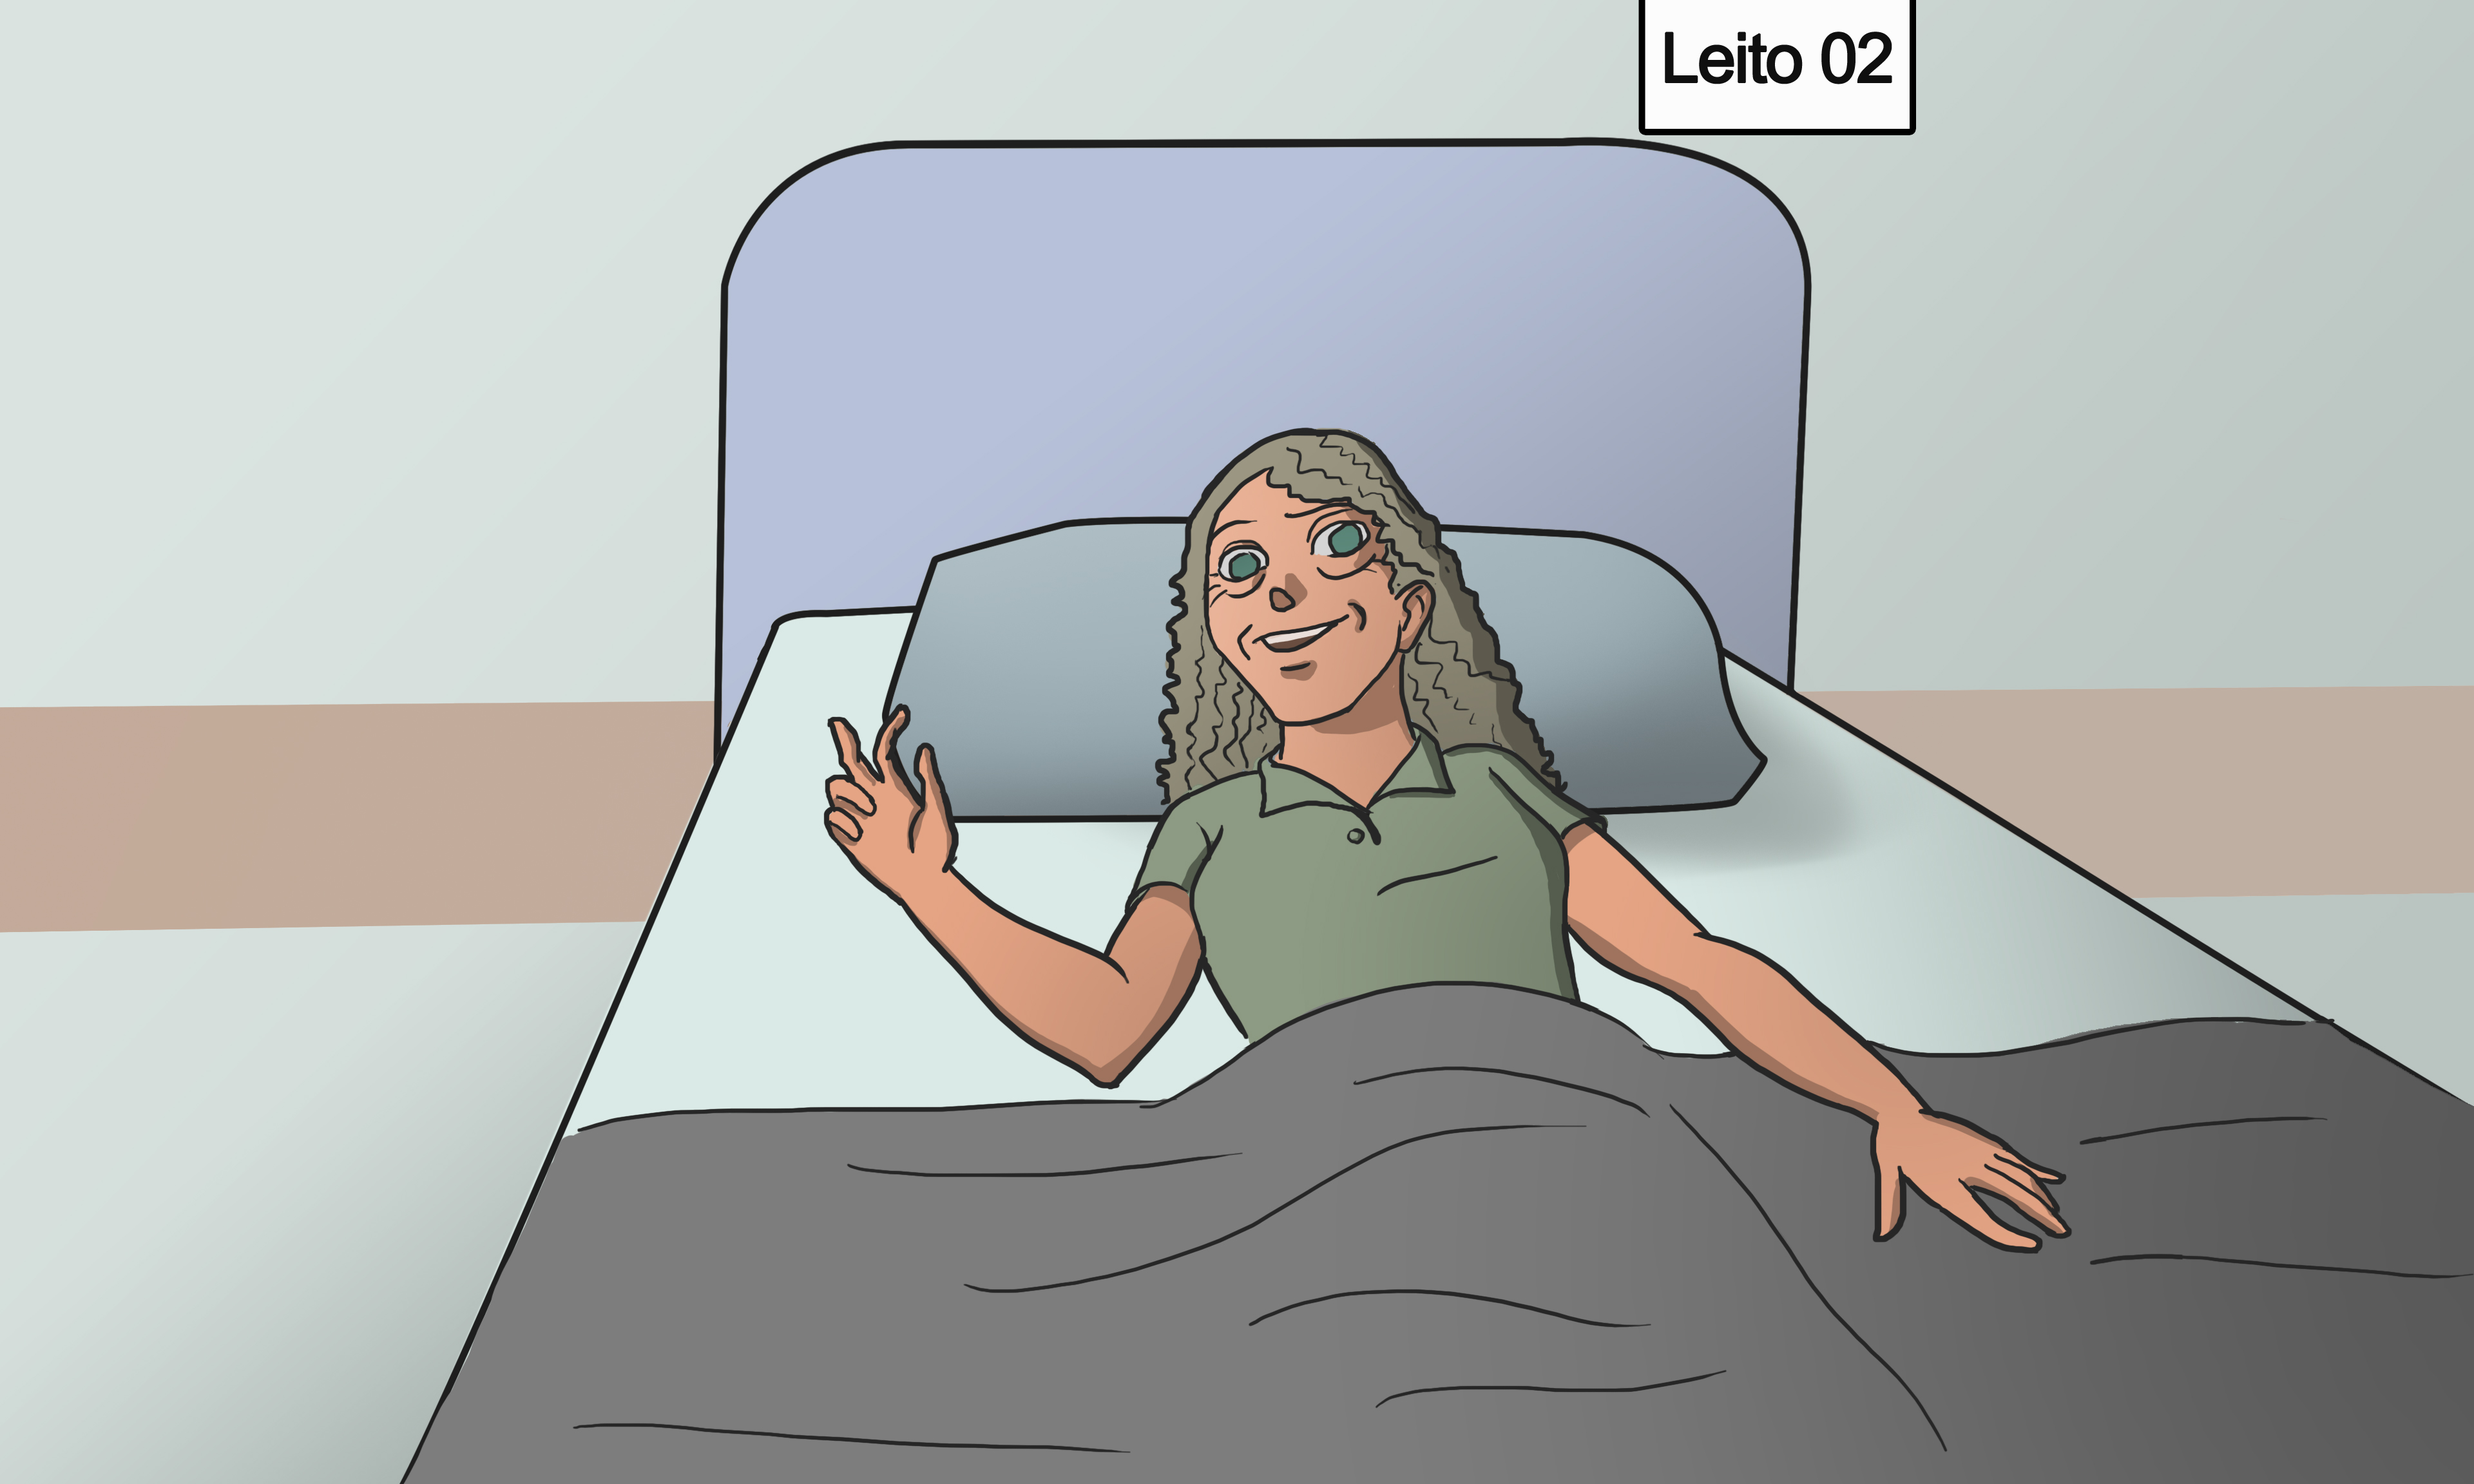
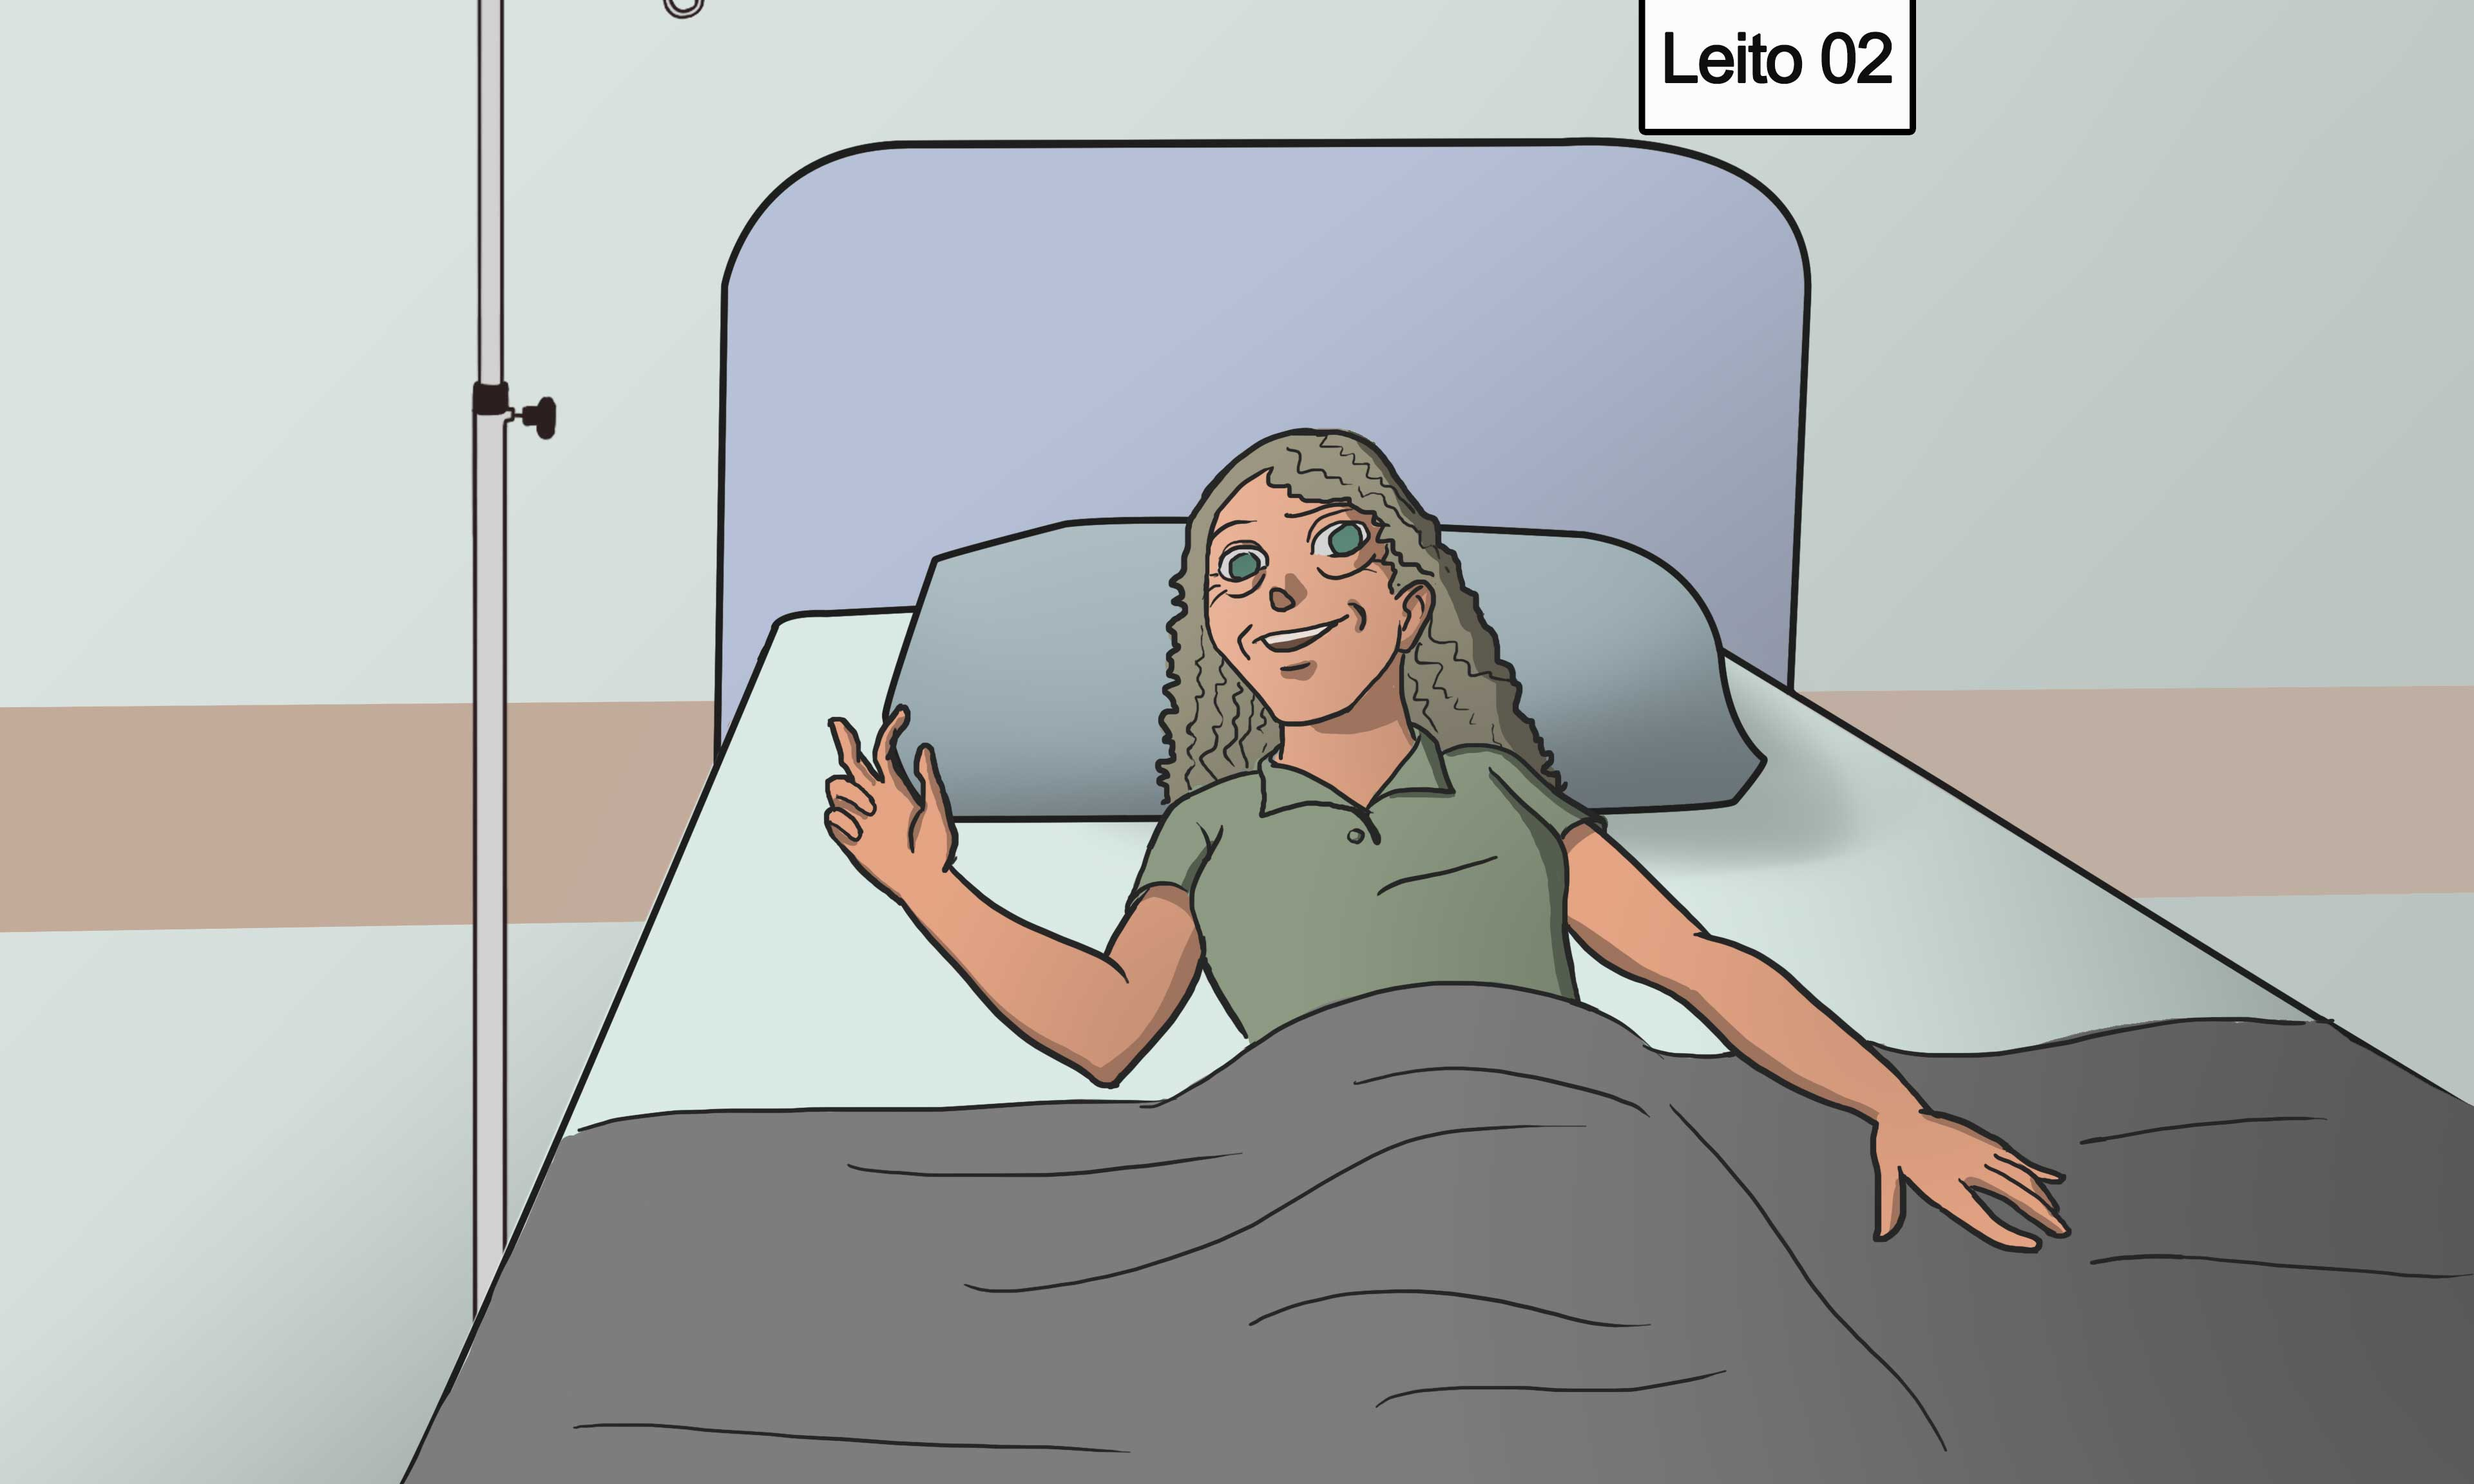
new images

Changed region(s): [[0.1875, 0.0, 0.2188, 0.875], [0.25, 0.0, 0.2812, 0.0312]]

diff --git a/src/javascript/game/scripts/levels/fase6.js b/src/javascript/game/scripts/levels/fase6.js
@@ -814,9 +814,9 @@ define([ "levelsData", "Scene", "Action", "Level", "Dialog", "InteractiveObject"
                 })
                 .setVisibility( false ),
 
-            new Action("btn-erguer_grade", "Erguer grade da cama")
+            new Action("btn-erguer_grade", "Elevar grade da cama")
                 // CONSERTAR
-                .setCssClass("action-erguer_grade")
+                .setCssClass("action-elevarGrade")
                 .onClick(function() {
                     console.log("Action: Erguer grade da cama");
                     if ( core.flag("score_identificou_curativo") == false ) {
@@ -830,7 +830,10 @@ define([ "levelsData", "Scene", "Action", "Level", "Dialog", "InteractiveObject"
                     if ( core.flag("score_ergueu_grade") == false ) {
                         core.flag("score_ergueu_grade",  true );
                         core.registerScoreItem( Scores.elevarGradeDaCama );
+                        core.changeSceneCssClassTo("scene-bedChar06Grade");  
+                          core.setActionVisible("btn-erguer_grade", false);
                     }
+                
                 })
                 .setVisibility( false ),
 

diff --git a/src/javascript/game/scripts/levels/fase3.js b/src/javascript/game/scripts/levels/fase3.js
@@ -439,7 +439,7 @@ define([ "levelsData", "Scene", "Action", "Level", "Dialog", "InteractiveObject"
                 .setVisibility( false ),
 
 
-            new Action("btn-elevar_grade_cama", "Elevar a grade da cama")
+            new Action("btn-elevar_grade_cama", "Elevar grade da cama")
                 // CONSERTAR
                 .setCssClass("action-elevarGrade")
                 .onClick(function() {
@@ -448,6 +448,8 @@ define([ "levelsData", "Scene", "Action", "Level", "Dialog", "InteractiveObject"
                         if ( core.flag("score_elevou_grade_cama") == false ) {
                             core.flag("score_elevou_grade_cama",  true );
                             core.registerScoreItem( Scores.elevarGradeDaCama );
+                            core.changeSceneCssClassTo("scene-bedroom-level2b");
+                            core.setActionVisible("btn-elevar_grade_cama", false);
                         }
                     } else {
                         core.closeCommandBar();

diff --git a/src/css/imageURLs.less b/src/css/imageURLs.less
@@ -297,6 +297,7 @@ This file is part of Cuidando Bem.
 @scene-bedroom-level1b: url(../images/scenes/quartos1b.jpg);
 //@scene-bedroom-level1c: url(../images/scenes/quartos1.jcpg);
 @scene-bedroom-level2: url(../images/scenes/quartos2.jpg);
+@scene-bedroom-level2b: url(../images/scenes/quartos2b.jpg);
 @scene-bedroom-level3: url(../images/scenes/quartos3.jpg);
 @scene-bedroom-level4: url(../images/scenes/quartos4.jpg);
 @scene-bedroom-level5: url(../images/scenes/quartos5.jpg);
@@ -327,6 +328,7 @@ This file is part of Cuidando Bem.
 @scene-bedChar04: url(../images/scenes/leitoChar04.jpg);
 @scene-bedChar05: url(../images/scenes/leitoChar05.jpg);
 @scene-bedChar06: url(../images/scenes/leitoChar06.jpg);
+@scene-bedChar06Grade: url(../images/scenes/leitoChar06Grade.jpg);
 @scene-bedChar07: url(../images/scenes/leitoChar07.jpg);
 @scene-bedChar08: url(../images/scenes/leitoChar08.jpg);
 @scene-bedChar09: url(../images/scenes/leitoChar09.jpg);

diff --git a/src/javascript/game/scripts/levels/fase2.js b/src/javascript/game/scripts/levels/fase2.js
@@ -628,7 +628,7 @@ define([ "levelsData", "Scene", "Action", "Level", "Dialog", "InteractiveObject"
                 .onClick(function() {
                     // Som
                     Player.play( Player.audios.sfx.roupaRocando );
-                    core.changeSceneCssClassTo("scene-bedChar02-turned");
+                    core.changeSceneCssClassTo("scene-bedChar02-turned");   
                     core.setActionVisible("btn-mudar_posicao", false );
                     core.setInteractiveObjectVisible("io-pulseira_paciente", false );
                     core.setInteractiveObjectVisible("io-pulseira_paciente2", true );

diff --git a/src/css/scenes/scenesBackgroundImages.less b/src/css/scenes/scenesBackgroundImages.less
@@ -71,6 +71,12 @@ This file is part of Cuidando Bem.
   &:extend(.scene);
 }
 
+
+.scene-bedroom-level2b {
+  background-image: @scene-bedroom-level2b;
+  &:extend(.scene);
+}
+
 .scene-bedroom-level3 {
   background-image: @scene-bedroom-level3;
   &:extend(.scene);
@@ -161,6 +167,11 @@ This file is part of Cuidando Bem.
 
 .scene-bedChar06 {
   background-image: @scene-bedChar06;
+  &:extend(.scene);
+}
+
+.scene-bedChar06Grade {
+  background-image: @scene-bedChar06Grade;
   &:extend(.scene);
 }
 
